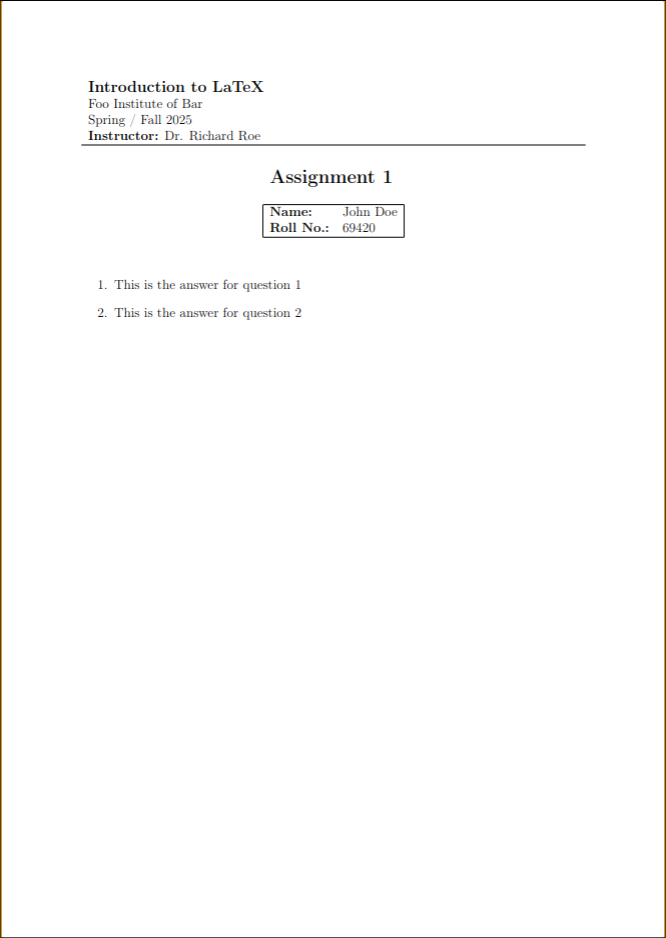
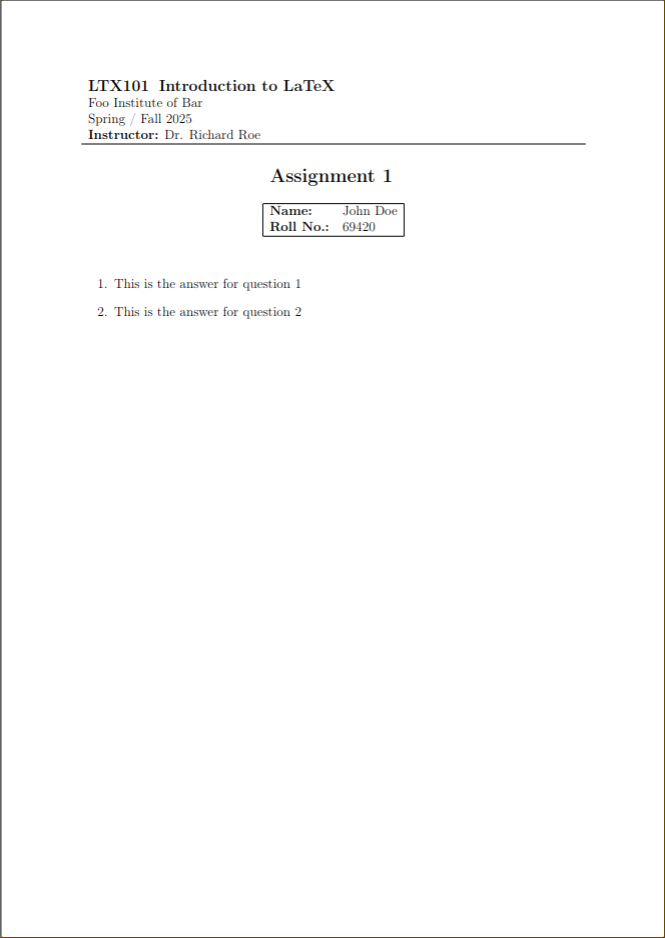
feat:title shows course code also
- edited `vars.tex`
- updated `assets/sample.png`

diff --git a/title.tex b/title.tex
@@ -1,7 +1,7 @@
 \thispagestyle{empty} % This command disables the header on the first page. 
 
 \begin{tabular}{p{15.5cm}} % This is a simple tabular environment to align your text nicely 
-{\large \bf \courseName} \\
+{\large \bf \courseCode\: \courseName} \\
 \institute \\ \courseSeason\ \courseYear  \\ \textbf{Instructor:} \instructorName\\
 \hline % \hline produces horizontal lines.
 
